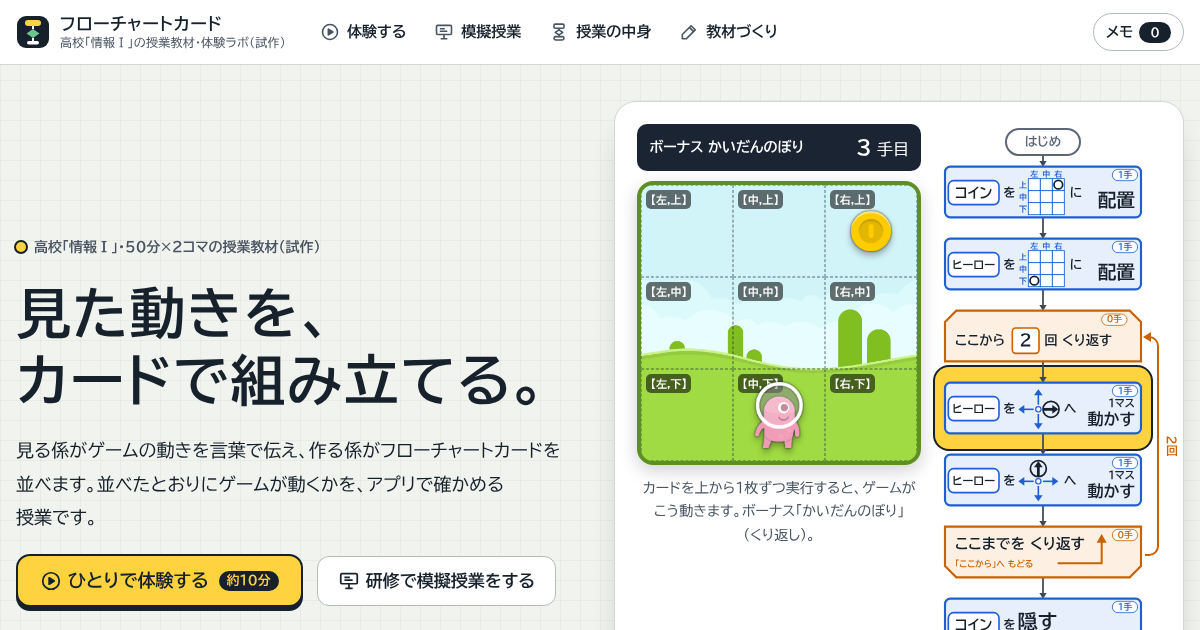
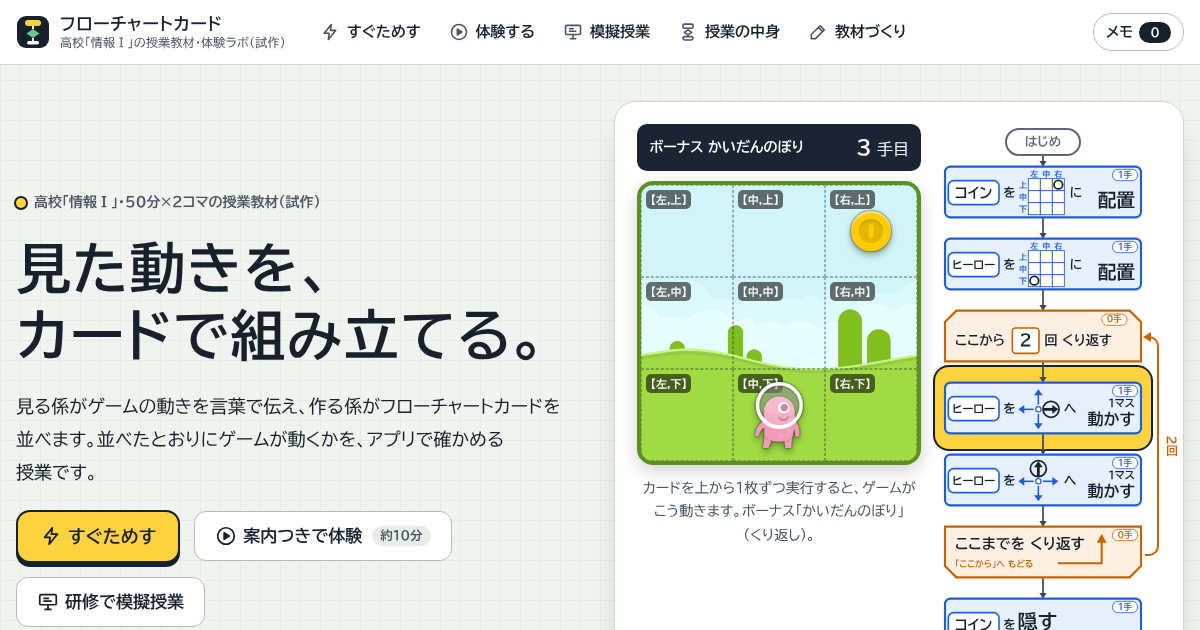
フローチャートカード ラボ：「すぐためす」を足した（お題を見る → 並べる → 実行してくらべる を1画面で）
- お題（授業の10題）をえらぶと、お題の動きがすぐ流れる。何回でも見られる
- 「実行してくらべる」で、お題の盤とあなたの盤が同じ手ずつ動き、ずれた手で止まって赤い枠をつけ、その手で動いた行を光らせる
- ホームの先頭の入口と、上の帯・下のタブに「すぐためす」を足した

Claude-Session: https://claude.ai/code/session_015rzswWMY7uoNTBnhZ5nXvS

diff --git a/flowchart-card-lab/README.md b/flowchart-card-lab/README.md
@@ -1,20 +1,22 @@
 # フローチャートカード 体験ラボ（試作）
 
-高校「情報Ⅰ」のフローチャートカード授業を、**導入を考える先生が体験するためのページ**です。見る係がゲームの動きを言葉で伝え、作る係がフローチャートカードを並べ、並べたとおりに動くかをアプリで確かめる授業を、次の2通りで体験できます。
+高校「情報Ⅰ」のフローチャートカード授業を、**導入を考える先生が体験するためのページ**です。見る係がゲームの動きを言葉で伝え、作る係がフローチャートカードを並べ、並べたとおりに動くかをアプリで確かめる授業を、次の3通りで体験できます。
 
-- **ひとりで体験する**（約10分）：見る係 → 作る係 → 答え合わせを1人で進めます。次に押すところを黄色く光らせて案内します。
+- **すぐためす**：1つの画面で、お題の動きを見て、カードを並べて、「実行してくらべる」を押すと、お題とあなたの並べ方が横にならんで同じ手ずつ動きます。ずれた手で止まり、どの行のカードで動いたかを光らせます。
+- **案内つきで体験する**（約10分）：見る係 → 作る係 → 答え合わせを1人で進めます。次に押すところを黄色く光らせて案内します。
 - **研修で模擬授業をする**：説明する人がこのページをスクリーンに映して進め、参加する先生が生徒役になります。カードは紙でも端末（参加者の画面）でも並べられます。
 
 - 公開中のページ：**https://109mei.github.io/flowchart-card-lab/**（参加者の画面は最後に `#join` をつけたアドレス）
 - `index.html` の1ファイルだけで動きます。キャラ・物・背景の絵は **Kenney の CC0 素材**（Platformer Pack Redux・Space Shooter Redux）を埋めこんでいます（くわしくは `ASSETS_LICENSE.txt`）。カードの絵は図形（SVG）、音は Web Audio API で作っています。`og.png` は共有したときに出る画像、`icon-180.png` はスマホのホーム画面のアイコンです。字は Google Fonts の BIZ UDPゴシックです。
-- PC でもスマホでも使えます。PC は上の帯、スマホは下のタブで画面を移ります。
+- PC でもスマホでも使えます。PC は上の帯、スマホは下のタブで画面を移ります（参加者の画面は `#join`、すぐためすは `#quick`）。
 - 保存先は、開いたブラウザの中です（アカウント登録・サーバーはありません）。ほかの端末に持っていくときは「教材づくり → つくる → 書き出し・読み込み」で JSON に書き出します。
 
 ## 画面
 
 | 画面 | できること |
 |---|---|
-| ホーム | 入口2つ（ひとりで体験する・研修で模擬授業をする）。見本1のカードを上から実行して見せる動く流れ図、授業でやること、50分×2コマの流れ、1班のカード |
+| ホーム | 入口3つ（すぐためす・案内つきで体験・研修で模擬授業）。ボーナス「かいだんのぼり」のカードを上から実行して見せる動く流れ図、授業でやること、50分×2コマの流れ、1班のカード |
+| すぐためす | 授業の10題からお題をえらぶ → お題を見る（何回でも）→ カードを並べる → 実行してくらべる（お題の盤とあなたの盤が同じ手ずつ動き、ずれた手で止まって赤い枠。その手で動いた行が光る） |
 | 体験する | しくみ → 見る係（お題を3回まで再生）→ 作る係（見る係のことばを見ながら並べ、実行・判定）→ 答え合わせ（正解の並べ方・学ぶこと・文・Python） |
 | 模擬授業 | 授業をえらぶ、はじめる前に（紙の班・端末の班〔参加者の画面の QR コード〕・スクリーン・班の分け方）、いまの場面（時計・1回の進め方・生徒役と先生役がすること）、スクリーン用の「お題を映す」「時計を映す」「QRを映す」 |
 | 参加者の画面 | 模擬授業で生徒役の先生が使う、作る係の画面（`#join`）。スクリーンに出ているお題をえらんで並べる。正解と動画は出ない |
